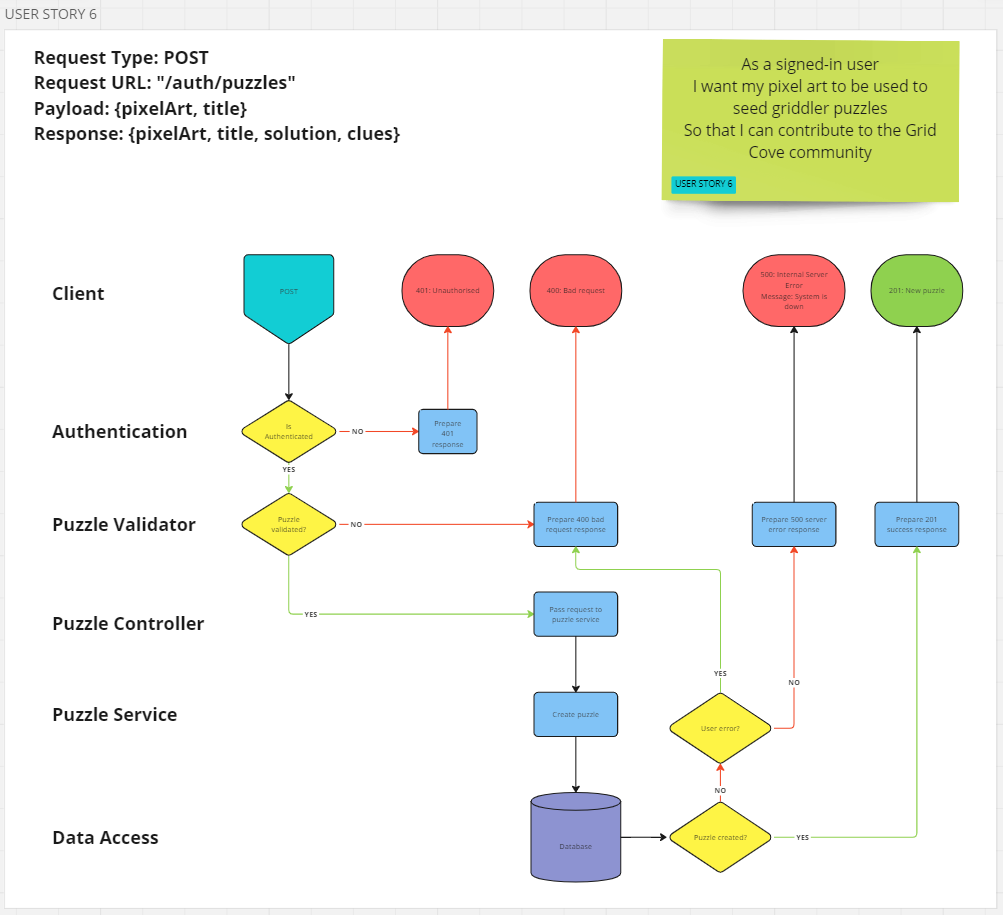
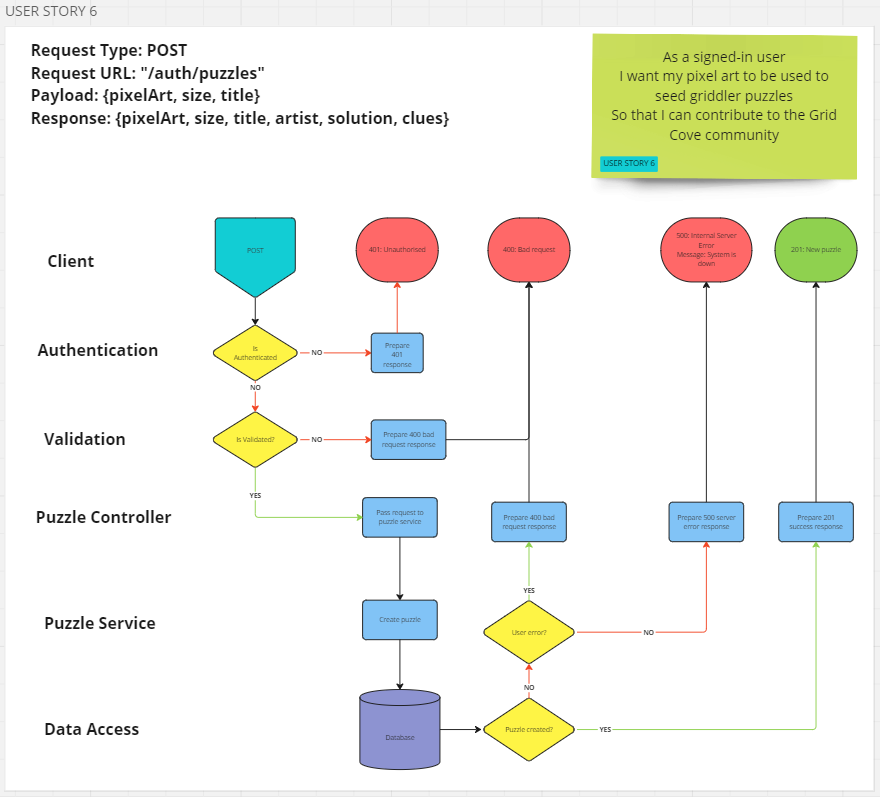
PASSED: PS6-1
It should call PuzzleGenerator with the pixel art string

diff --git a/gc-back-end/src/utils/PuzzleGenerator.js b/gc-back-end/src/utils/PuzzleGenerator.js
@@ -2,7 +2,6 @@ import APIErrors from "./APIErrors.js";
 
 export default class PuzzleGenerator {
   static generate(pixelArt, puzzleSize) {
-    PuzzleGenerator.#validatePuzzleSize(pixelArt, puzzleSize);
     const solution = PuzzleGenerator.#getSolutionString(pixelArt);
     const clues = PuzzleGenerator.#getClues(solution, puzzleSize);
     return {
@@ -11,17 +10,13 @@ export default class PuzzleGenerator {
     };
   }
 
-  static #validatePuzzleSize(pixelArt, puzzleSize) {
-    if (puzzleSize % 5 !== 0) throw APIErrors.INVALID_PUZZLE_SIZE;
-    if (pixelArt.length !== puzzleSize ** 2)
-      throw APIErrors.INVALID_PIXEL_ART_LENGTH;
-  }
-
   //Builds a solution string from the given pixel art string
   static #getSolutionString(pixelArt) {
     const charCodeProfile = PuzzleGenerator.#getCharProfileFromString(pixelArt);
-    const charCodesToFill =
-      PuzzleGenerator.#getCharCodesToFill(charCodeProfile);
+    const charCodesToFill = PuzzleGenerator.#getCharCodesToFill(
+      charCodeProfile,
+      pixelArt.length
+    );
     return PuzzleGenerator.#buildSolutionString(pixelArt, charCodesToFill);
   }
 
@@ -36,75 +31,74 @@ export default class PuzzleGenerator {
     return solutionString;
   }
 
-  //Randomly assign chars to be filled. Will ensure that at least one
-  //char from the topOccurring chars (>10%) is filled.
-  static #getCharCodesToFill({ chars, topOccurringChars }) {
-    const doFill = {};
-    const mustFill = PuzzleGenerator.#getRandomChar(topOccurringChars);
-    let filledCellCount = 0;
-    for (const charCode of chars) {
-      if (filledCellCount === chars.length - 1) break;
-      if (charCode === mustFill || Math.random() < 0.6) {
-        filledCellCount += 1;
-        doFill[charCode] = true;
-      }
-    }
-    return doFill;
+  //Randomly splits charCode profile in two. The first array will be
+  //used for to fill so long as it has at least 35% cover.
+  static #getCharCodesToFill(profile, length) {
+    const [firstHalf, secondHalf] = this.#shuffleAndRandomlySplitArray(profile);
+    const firstHalfCover = PuzzleGenerator.#getTotalCover(firstHalf, length);
+    const secondHalfCover = PuzzleGenerator.#getTotalCover(secondHalf, length);
+    const toFill =
+      (firstHalfCover / length) * 100 > 35 ? firstHalf : secondHalf;
+
+    PuzzleGenerator.#ensureCorrectDistribution(
+      toFill,
+      Math.max(firstHalfCover, secondHalfCover),
+      length
+    );
+
+    return toFill.reduce((charMap, charProfile) => {
+      charMap[charProfile.char] = true;
+      return charMap;
+    }, {});
   }
 
-  //Returns a random char from an array of chars
-  static #getRandomChar(chars) {
-    const randomIndex = Math.floor(Math.random() * chars.length);
-    return chars[randomIndex];
+  //If the cover of to fill is over 90 then chars are removed until it
+  //is less or equal to 90
+  static #ensureCorrectDistribution(toFill, toFillCover, length) {
+    const maxCover = Math.floor(length * 0.9);
+    if (toFillCover > maxCover) {
+      PuzzleGenerator.#redistributeChars({
+        amountToRemove: toFillCover - maxCover,
+        from: toFill,
+      });
+    }
+  }
+
+  //Returns the total cover for a given set of characters
+  static #getTotalCover(charProfiles) {
+    return charProfiles.reduce((total, char) => total + char.occurrence, 0);
+  }
+
+  static #redistributeChars({ amountToRemove, from }) {
+    from.sort((a, b) => b.occurrence - a.occurrence);
+    let amountRemoved = 0;
+    while (amountRemoved < amountToRemove) {
+      const charRemoved = from.pop();
+      amountRemoved += charRemoved.occurrence;
+    }
+  }
+
+  static #shuffleAndRandomlySplitArray(arr) {
+    arr.sort(() => 0.5 - Math.random());
+    const indexToSplitAt = Math.floor(Math.random() * (arr.length - 1)) + 1;
+    const firstHalf = arr.slice(0, indexToSplitAt);
+    const secondHalf = arr.slice(indexToSplitAt);
+
+    return [firstHalf, secondHalf];
   }
 
   //Returns an object with an array of all chars
   //and an array of chars that make up at least 10% of the string
   static #getCharProfileFromString(string) {
     const profile = {};
-    const chars = [];
-    const topOccurringChars = [];
-
     for (const char of string) {
-      if (!profile[char]) {
-        chars.push(char);
-        PuzzleGenerator.#addCharToProfile(profile, char);
-      }
-      profile[char].occurrence++;
-      if (PuzzleGenerator.#doAddToTopOccurringChars(profile, string, char)) {
-        topOccurringChars.push(char);
-      }
-      PuzzleGenerator.#validateCharacterDistribution(profile, string, char);
+      profile[char] = (profile[char] || 0) + 1;
+      if (profile[char] > string.length * 0.9)
+        throw APIErrors.INVALID_PIXEL_ART_CHARACTER_DISTRIBUTION;
     }
-    return {
-      chars,
-      topOccurringChars,
-    };
-  }
-
-  static #validateCharacterDistribution(profile, string, char) {
-    if (profile[char].occurrence > string.length * 0.9)
-      throw APIErrors.INVALID_PIXEL_ART_CHARACTER_DISTRIBUTION;
-  }
-
-  //Checks whether char comprises at least 10% of the string and
-  //has not already been added to the top occurring chars
-  static #doAddToTopOccurringChars(profile, string, char) {
-    if (
-      !profile[char].inTopOccurringChars &&
-      profile[char].occurrence >= string.length / 10
-    ) {
-      profile[char].inTopOccurringChars = true;
-      return true;
-    }
-  }
-
-  //Adds initial profile object for a given char to the profile
-  static #addCharToProfile(profile, char) {
-    profile[char] = {
-      occurrence: 0,
-      inTopOccurringChars: false,
-    };
+    return Object.entries(profile).map(([char, occurrence]) => {
+      return { char, occurrence };
+    });
   }
 
   static #getClues(solution, puzzleSize) {

diff --git a/gc-back-end/test/services/PuzzleService.test.js b/gc-back-end/test/services/PuzzleService.test.js
@@ -1,0 +1,55 @@
+import { expect } from "chai";
+import sinon from "sinon";
+
+import Puzzle from "../../src/models/Puzzle.model.js";
+import PuzzleGenerator from "../../src/utils/PuzzleGenerator.js";
+import PuzzleService from "../../src/services/Puzzle.service.js";
+import * as userTestData from "../data/User.test.data.js";
+import * as puzzleTestData from "../data/Puzzle.test.data.js";
+
+describe("Puzzle service tests: ", () => {
+  const testAuthor = userTestData.documents[0];
+  const testPuzzleSubmission = puzzleTestData.submissions[0];
+  const testSolutionString = "111111";
+  const testClues = {
+    rowClues: [[1], [2, 1]],
+    columnClues: [[3, 2], [5]],
+  };
+  let puzzleService;
+  let generatePuzzleStub;
+  let createStub;
+
+  beforeEach(() => {
+    puzzleService = new PuzzleService();
+    generatePuzzleStub = sinon.stub(PuzzleGenerator, "generate");
+    generatePuzzleStub.returns({
+      solution: testSolutionString,
+      clues: testClues,
+    });
+    createStub = sinon.stub(Puzzle, "create");
+  });
+
+  afterEach(() => {
+    puzzleService = null;
+    generatePuzzleStub.restore();
+    createStub.restore();
+  });
+
+  //? PS6-1
+  it("should call PuzzleGenerator with the pixel art string", async () => {
+    const expectedPixelArtArg = testPuzzleSubmission.pixelArt;
+    const expectedPuzzleSizeArg = testPuzzleSubmission.size;
+    //Act
+    await puzzleService.createPuzzle(
+      testPuzzleSubmission.pixelArt,
+      testPuzzleSubmission.title,
+      testAuthor,
+      testPuzzleSubmission.size
+    );
+    const [actualPixelArtArg, actualPuzzleSizeArg] =
+      generatePuzzleStub.getCall(0).args;
+    //Assert
+    expect(actualPixelArtArg).to.equal(expectedPixelArtArg);
+    expect(actualPuzzleSizeArg).to.equal(expectedPuzzleSizeArg);
+  });
+});

diff --git a/gc-back-end/test/utils/PuzzleGenerator.test.js b/gc-back-end/test/utils/PuzzleGenerator.test.js
@@ -43,35 +43,4 @@ describe("Puzzle generator tests: ", () => {
     expect(columnClues).has.length(testPuzzleSize);
     expect(rowClues).has.length(testPuzzleSize);
   });
-
-  //? PG6-4
-  it("should throw an error if the grid size is not a multiple of 5", async () => {
-    //Arrange
-    const expected = APIErrors.INVALID_PUZZLE_SIZE;
-    const invalidPuzzleSize = 4;
-    let actual;
-    //Act
-    try {
-      PuzzleGenerator.generate(testPixelArt, invalidPuzzleSize);
-    } catch (err) {
-      actual = err;
-    }
-    //Assert
-    expect(actual).to.equal(expected);
-  });
-
-  //? PG6-5
-  it("should throw an error if the pixel art string does not match the grid size", async () => {
-    //Arrange
-    const expected = APIErrors.INVALID_PIXEL_ART_LENGTH;
-    let actual;
-    //Act
-    try {
-      PuzzleGenerator.generate(testPixelArt + "0", testPuzzleSize);
-    } catch (err) {
-      actual = err;
-    }
-    //Assert
-    expect(actual).to.equal(expected);
-  });
 });

diff --git a/gc-back-end/src/models/Puzzle.model.js b/gc-back-end/src/models/Puzzle.model.js
@@ -1,0 +1,43 @@
+import mongoose from "mongoose";
+
+const cluesSchema = new mongoose.Schema({
+  rowClues: {
+    type: [[Number]],
+    required: true,
+  },
+  columnClues: {
+    type: [[Number]],
+    required: true,
+  },
+});
+
+const puzzleSchema = new mongoose.Schema({
+  pixelArt: {
+    type: String,
+    required: true,
+    unique: true,
+  },
+  title: {
+    type: String,
+    required: true,
+  },
+  solutionString: {
+    type: String,
+    required: true,
+  },
+  size: {
+    type: Number,
+    required: true,
+  },
+  clues: {
+    type: cluesSchema,
+    required: true,
+  },
+  artist: {
+    type: mongoose.Schema.Types.ObjectId,
+    ref: "User",
+  },
+});
+
+const Puzzle = mongoose.model("Puzzle", puzzleSchema);
+export default Puzzle;

diff --git a/gc-back-end/test/data/Puzzle.test.data.js b/gc-back-end/test/data/Puzzle.test.data.js
@@ -1,16 +1,19 @@
 export const submissions = [
   {
     pixelArt: "000000909000000D000DD999D",
-    title: "Hell skull",
+    title: "Skull",
+    size: 5,
   },
   {
     pixelArt:
[1 lines of base64/hex data omitted]
     title: "Lion",
+    size: 10,
   },
   {
     pixelArt:
       "444434444000443443440344000444444440300000004434444344000004444443300000404444443030000404434443030400444444403030400444444403030004434444403030444444444303030344444444303030344444444303030344444444303030344444444303030344444",
     title: "King Kong",
+    size: 15,
   },
 ];

diff --git a/gc-back-end/src/services/Puzzle.service.js b/gc-back-end/src/services/Puzzle.service.js
@@ -1,0 +1,7 @@
+import PuzzleGenerator from "../utils/PuzzleGenerator.js";
+
+export default class PuzzleService {
+  createPuzzle = async (pixelArt, title, author, size) => {
+    PuzzleGenerator.generate(pixelArt, size);
+  };
+}

diff --git a/gc-back-end/docs/2._test-plans/user-story-6-test-plan.md b/gc-back-end/docs/2._test-plans/user-story-6-test-plan.md
@@ -26,19 +26,26 @@ Note, user story 5 related exclusively to frontend functionality.
 
 ## Puzzle Generator (PG)
 
+Note, I am keeping these tests relatively flexible. It is difficult to predict at this point the best approach to generating good quality puzzles from a given seed.
+
+I will relocate grid size validation to a middleware validator
+
 - [x] PG6-1: It should generate a solution string from a given pixel art string
 - [x] PG6-2: It should throw an error if any one character makes up over 90 percent of the string
 - [x] PG6-3: It should return a clues object with row and column properties which have two dimensional arrays, the length of which should equal the puzzle size
-- [x] PG6-4: It should throw an error if the grid size is not a multiple of 5
-- [x] PG6-5: It should throw an error if the pixel art string does not match the grid size
+<!-- markdownlint-disable-next-line -->
+- [x] <s> PG6-4: It should throw an error if the grid size is not a multiple of 5></s>
+<!-- markdownlint-disable-next-line -->
+- [x] <s>PG6-5: It should throw an error if the pixel art string does not match the grid size<s>
 
 ## Puzzle Service (PS)
 
-- [ ] PS6-1: It should call PuzzleGenerator with the pixel art string
+- [x] PS6-1: It should call PuzzleGenerator with the pixel art string
 - [ ] PS6-2: It should call create on the Puzzle model with the correct arguments
 - [ ] PS6-3: It should throw a duplicate pixel art error where the pixel art is a duplicate
-- [ ] PS6-4: It should throw a server error for all other errors
-- [ ] PS6-5: It should return the new puzzle document where create resolves
+- [ ] PS6-4: It should rethrow an invalid puzzle art distribution error where thrown by the Puzzle Generator
+- [ ] PS6-5: It should throw a server error for all other errors
+- [ ] PS6-6: It should return the new puzzle document where create resolves
 
 ## Puzzle Controller (PC)
 
@@ -57,6 +64,17 @@ Note, user story 5 related exclusively to frontend functionality.
 - [ ] INT6-4: It should respond with a 401 status code if jwt.verify throws
 - [ ] INT6-5: It should respond with a 401 status code if getById returns a falsy value
 - [ ] INT6-6: It should respond with a 500 status code if getById rejects
-- [ ] INT6-7: It should respond with a 400 status code if the pixel art string is invalid
-- [ ] INT6-8: It should respond with a 400 status code if the title is invalid
-- [ ] INT6-9: It should respond with a 400 status code if the puzzle art is duplicated
+- [ ] INT6-7: It should respond with a 400 status code if the puzzle art is duplicated
+- [ ] INT6-8: It should respond with a 400 status code if the pixel art string distribution is invalid
+
+### validation
+
+- [ ] INT6-9: It should respond with a 400 status code if the grid size is missing
+- [ ] INT6-10: It should respond with a 400 status code if the grid size is not greater or equal to 5
+- [ ] INT6-11: It should respond with a 400 status code if the grid size is not less than or equal to 15
+- [ ] INT6-12: It should respond with a 400 status code if the grid size is not a multiple of 5
+- [ ] INT6-13: It should respond with a 400 status code if the pixel art string size is missing
+- [ ] INT6-14: It should respond with a 400 status code if the pixel art string size length is not the square of the puzzle size
+- [ ] INT6-15: It should respond with a 400 status code if the title is missing
+- [ ] INT6-16: It should respond with a 400 status code if the title is not greater or equal to 3 chars
+- [ ] INT6-17: It should respond with a 400 status code if the title is not less than or equal to 32 chars
